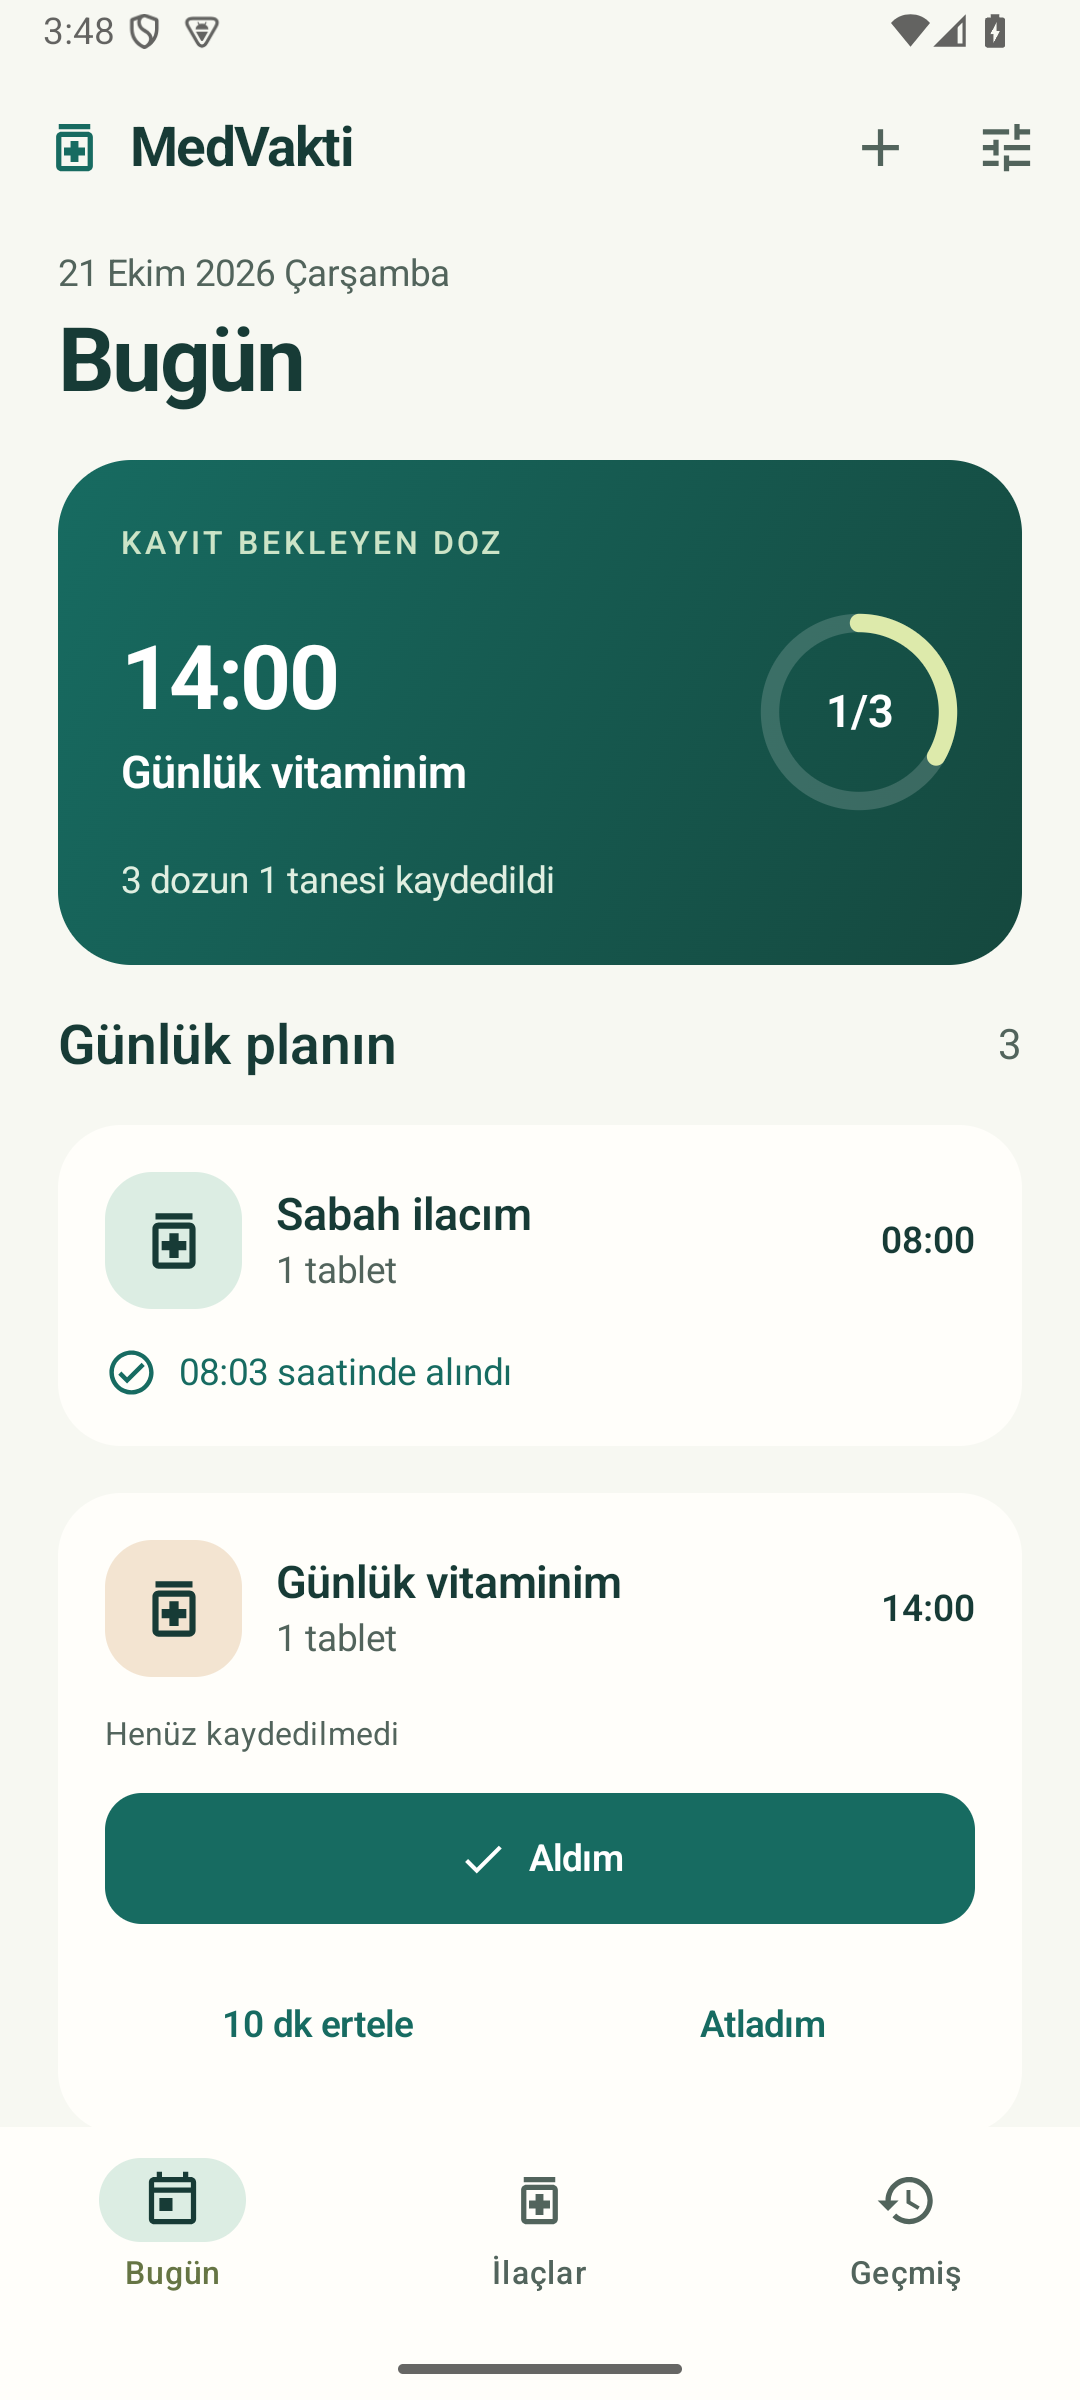
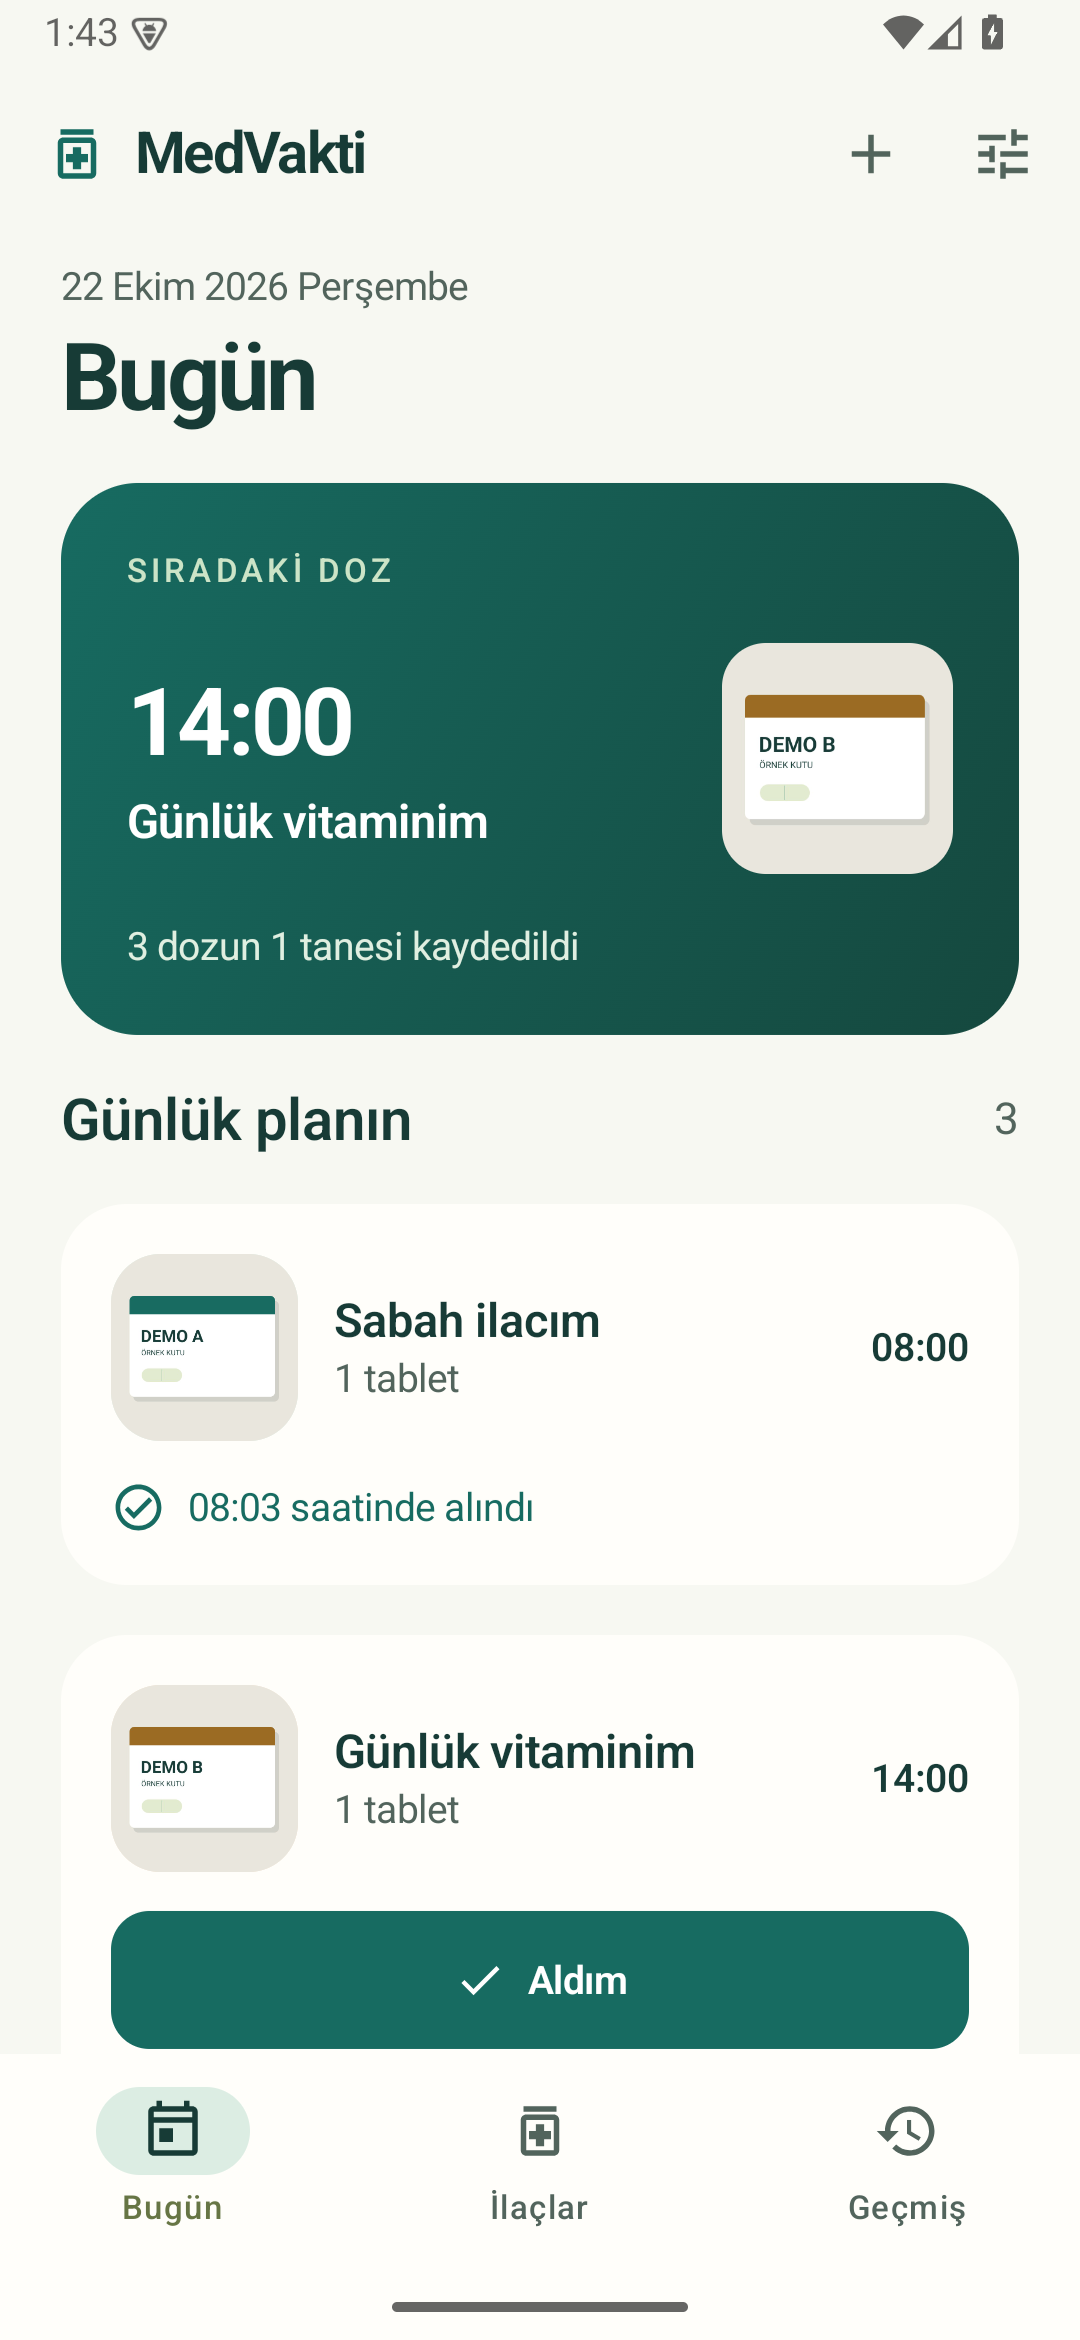
Publish MedVakti photo preview without refreshing shared feeds [skip ci]

diff --git a/public/medvakti/index.html b/public/medvakti/index.html
@@ -1,1 +1,1 @@
-<!doctype html><html lang="tr"><meta charset="utf-8"><meta name="viewport" content="width=device-width,initial-scale=1"><meta name="description" content="MedVakti ile kendi ilaç saatlerini hatırla, aldığın dozları ve kalan stokunu takip et. Hesapsız, çevrimdışı Android ilaç hatırlatıcısı. Dört dilde."><title>İlaç Hatırlatıcı: MedVakti | Çevrimdışı İlaç Takibi</title><link rel="canonical" href="https://ipekbayrak.github.io/medvakti/"><meta name="theme-color" content="#176B61"><meta property="og:type" content="website"><meta property="og:locale" content="tr_TR"><meta property="og:title" content="İlaç Hatırlatıcı: MedVakti"><meta property="og:description" content="İlaçlarını unutma. Aldığını bil. Kullanıcının kendi girdiği plan için sade, çevrimdışı hatırlatma ve kayıt."><meta property="og:url" content="https://ipekbayrak.github.io/medvakti/"><meta property="og:image" content="https://ipekbayrak.github.io/medvakti/feature.png"><meta property="og:image:width" content="1024"><meta property="og:image:height" content="500"><meta name="twitter:card" content="summary_large_image"><script type="application/ld+json">{"@context": "https://schema.org", "@type": "MobileApplication", "name": "MedVakti", "url": "https://ipekbayrak.github.io/medvakti/", "description": "Kullanıcının kendi girdiği ilaç planını hatırlatan çevrimdışı Android uygulaması.", "operatingSystem": "Android 8.0+", "applicationCategory": "HealthApplication", "inLanguage": ["tr", "en", "de", "ja"], "image": "https://ipekbayrak.github.io/medvakti/feature.png", "softwareVersion": "1.0.3", "publisher": {"@type": "Person", "name": "Mustafa İpekbayrak", "url": "https://github.com/ipekbayrak"}}</script><link rel="icon" href="icon.png"><style>*{box-sizing:border-box}body{margin:0;background:#f7f8f2;color:#173b36;font:17px/1.6 system-ui}main{max-width:1080px;margin:auto;padding:32px 24px}nav,footer{display:flex;align-items:center;gap:16px;flex-wrap:wrap}nav{justify-content:space-between}nav img{vertical-align:middle;border-radius:14px;margin-right:10px}.brand{font-size:24px;font-weight:750}a{color:#176b61}.hero{display:grid;grid-template-columns:1.2fr 1fr;gap:60px;align-items:center;padding:64px 0}h1{font-size:clamp(40px,6vw,68px);line-height:1.08;letter-spacing:-2px;margin:16px 0 28px}.intro{font-size:21px;color:#52645c}.tag{display:inline-block;background:#dce8bc;padding:7px 13px;border-radius:20px;font-size:14px;font-weight:650}.phone{max-height:680px;max-width:100%;border-radius:28px;border:8px solid #173b36;box-shadow:0 20px 45px #173b3620;display:block;margin:auto}li{margin:12px 0}.status{padding:16px;background:#e1eee6;border-radius:14px}footer{border-top:1px solid #d5dfd3;padding:24px 0;font-size:14px;color:#52645c}@media(max-width:720px){.hero{grid-template-columns:1fr;gap:32px;padding:40px 0}.phone{max-height:620px}} </style><main><nav><span class="brand"><img src="icon.png" width="42" height="42" alt="">MedVakti</span><a href="privacy.html">Gizlilik / Privacy</a></nav><div class="hero"><section><span class="tag">Android · Türkçe / English / Deutsch / 日本語</span><h1>İlaçlarını unutma.<br>Aldığını bil.</h1><p class="intro">Kendi girdiğin ilacı, miktarı ve saati hatırla. Aldığını kaydet, geçmişini ve kalan stokunu kolayca gör.</p><ul><li>Hesap ve API anahtarı gerektirmeyen çevrimdışı ilaç takibi</li><li>Günlük, belirli günlerde veya aralıklı hatırlatmalar</li><li>Aldım, atladım, ertele ve geri al işlemleri</li><li>İsteğe bağlı parola ile şifrelenmiş dosya yedeği</li></ul><p class="status">Google Play yayın hazırlığı sürüyor.</p><small>MedVakti kullanıcının girdiği planı hatırlatır. Doz hesaplamaz; teşhis, tedavi veya tıbbi tavsiye sunmaz.</small></section><img class="phone" src="today.png" alt="MedVakti Bugün ekranı: örnek ilaç planı ve Aldım düğmesi. Görseldeki kayıtlar tanıtım amaçlıdır."></div><footer><span>Mustafa İpekbayrak · ipekbayrak</span><a href="mailto:mustafaipekbayrak@gmail.com">Destek / Support</a><a href="privacy.html">Gizlilik politikası</a></footer></main></html>
+<!doctype html><html lang="tr"><meta charset="utf-8"><meta name="viewport" content="width=device-width,initial-scale=1"><meta name="description" content="Kutu fotoğrafını ekle, saatini seç. MedVakti ile fotoğraflı ilaç hatırlatmaları, cihazda isim okuma ve çevrimdışı kayıt. Hesap gerekmez."><title>İlaç Hatırlatıcı: MedVakti | Çevrimdışı İlaç Takibi</title><link rel="canonical" href="https://ipekbayrak.github.io/medvakti/"><meta name="theme-color" content="#176B61"><meta property="og:type" content="website"><meta property="og:locale" content="tr_TR"><meta property="og:title" content="İlaç Hatırlatıcı: MedVakti"><meta property="og:description" content="Kutu fotoğrafını ekle, saatini seç. Fotoğraflı, sade ve çevrimdışı ilaç hatırlatma."><meta property="og:url" content="https://ipekbayrak.github.io/medvakti/"><meta property="og:image" content="https://ipekbayrak.github.io/medvakti/feature.png"><meta property="og:image:width" content="1024"><meta property="og:image:height" content="500"><meta name="twitter:card" content="summary_large_image"><script type="application/ld+json">{"@context": "https://schema.org", "@type": "MobileApplication", "name": "MedVakti", "url": "https://ipekbayrak.github.io/medvakti/", "description": "Fotoğraf ve kullanıcının seçtiği saatle sade, çevrimdışı ilaç hatırlatma ve kayıt.", "operatingSystem": "Android 8.0+", "applicationCategory": "HealthApplication", "inLanguage": ["tr", "en", "de", "ja"], "image": "https://ipekbayrak.github.io/medvakti/feature.png", "softwareVersion": "1.1.0", "publisher": {"@type": "Person", "name": "Mustafa İpekbayrak", "url": "https://github.com/ipekbayrak"}}</script><link rel="icon" href="icon.png"><style>*{box-sizing:border-box}body{margin:0;background:#f7f8f2;color:#173b36;font:17px/1.6 system-ui}main{max-width:1080px;margin:auto;padding:32px 24px}nav,footer{display:flex;align-items:center;gap:16px;flex-wrap:wrap}nav{justify-content:space-between}nav img{vertical-align:middle;border-radius:14px;margin-right:10px}.brand{font-size:24px;font-weight:750}a{color:#176b61}.hero{display:grid;grid-template-columns:1.2fr 1fr;gap:60px;align-items:center;padding:64px 0}h1{font-size:clamp(40px,6vw,68px);line-height:1.08;letter-spacing:-2px;margin:16px 0 28px}.intro{font-size:21px;color:#52645c}.tag{display:inline-block;background:#dce8bc;padding:7px 13px;border-radius:20px;font-size:14px;font-weight:650}.phone{max-height:680px;max-width:100%;border-radius:28px;border:8px solid #173b36;box-shadow:0 20px 45px #173b3620;display:block;margin:auto}li{margin:12px 0}.status{padding:16px;background:#e1eee6;border-radius:14px}footer{border-top:1px solid #d5dfd3;padding:24px 0;font-size:14px;color:#52645c}@media(max-width:720px){.hero{grid-template-columns:1fr;gap:32px;padding:40px 0}.phone{max-height:620px}} </style><main><nav><span class="brand"><img src="icon.png" width="42" height="42" alt="">MedVakti</span><a href="privacy.html">Gizlilik / Privacy</a></nav><div class="hero"><section><span class="tag">Android · Türkçe / English / Deutsch / 日本語</span><h1>İlaçlarını unutma.<br>Aldığını bil.</h1><p class="intro">Kutu fotoğrafını ekle veya adını yaz. Saatini seç; aldığını fotoğrafından tanıyarak kaydet. Ayrıntıları istediğinde aç, günlük akışını sade tut.</p><ul><li>Fotoğraf, otomatik kare küçük görsel ve cihazda ad okuma</li><li>Hesap gerektirmeyen çevrimdışı ilaç takibi</li><li>Günlük, belirli günlerde veya aralıklı hatırlatmalar</li><li>Aldım, atladım, ertele ve geri al işlemleri</li><li>İsteğe bağlı parola ile şifrelenmiş dosya yedeği</li></ul><p class="status">Google Play yayın hazırlığı sürüyor.</p><small>MedVakti kullanıcının girdiği planı hatırlatır. Doz hesaplamaz; teşhis, tedavi veya tıbbi tavsiye sunmaz.</small></section><img class="phone" src="today.png" alt="MedVakti Bugün ekranı: örnek ilaç planı ve Aldım düğmesi. Görseldeki kayıtlar tanıtım amaçlıdır."></div><footer><span>Mustafa İpekbayrak · ipekbayrak</span><a href="mailto:mustafaipekbayrak@gmail.com">Destek / Support</a><a href="privacy.html">Gizlilik politikası</a></footer></main></html>
